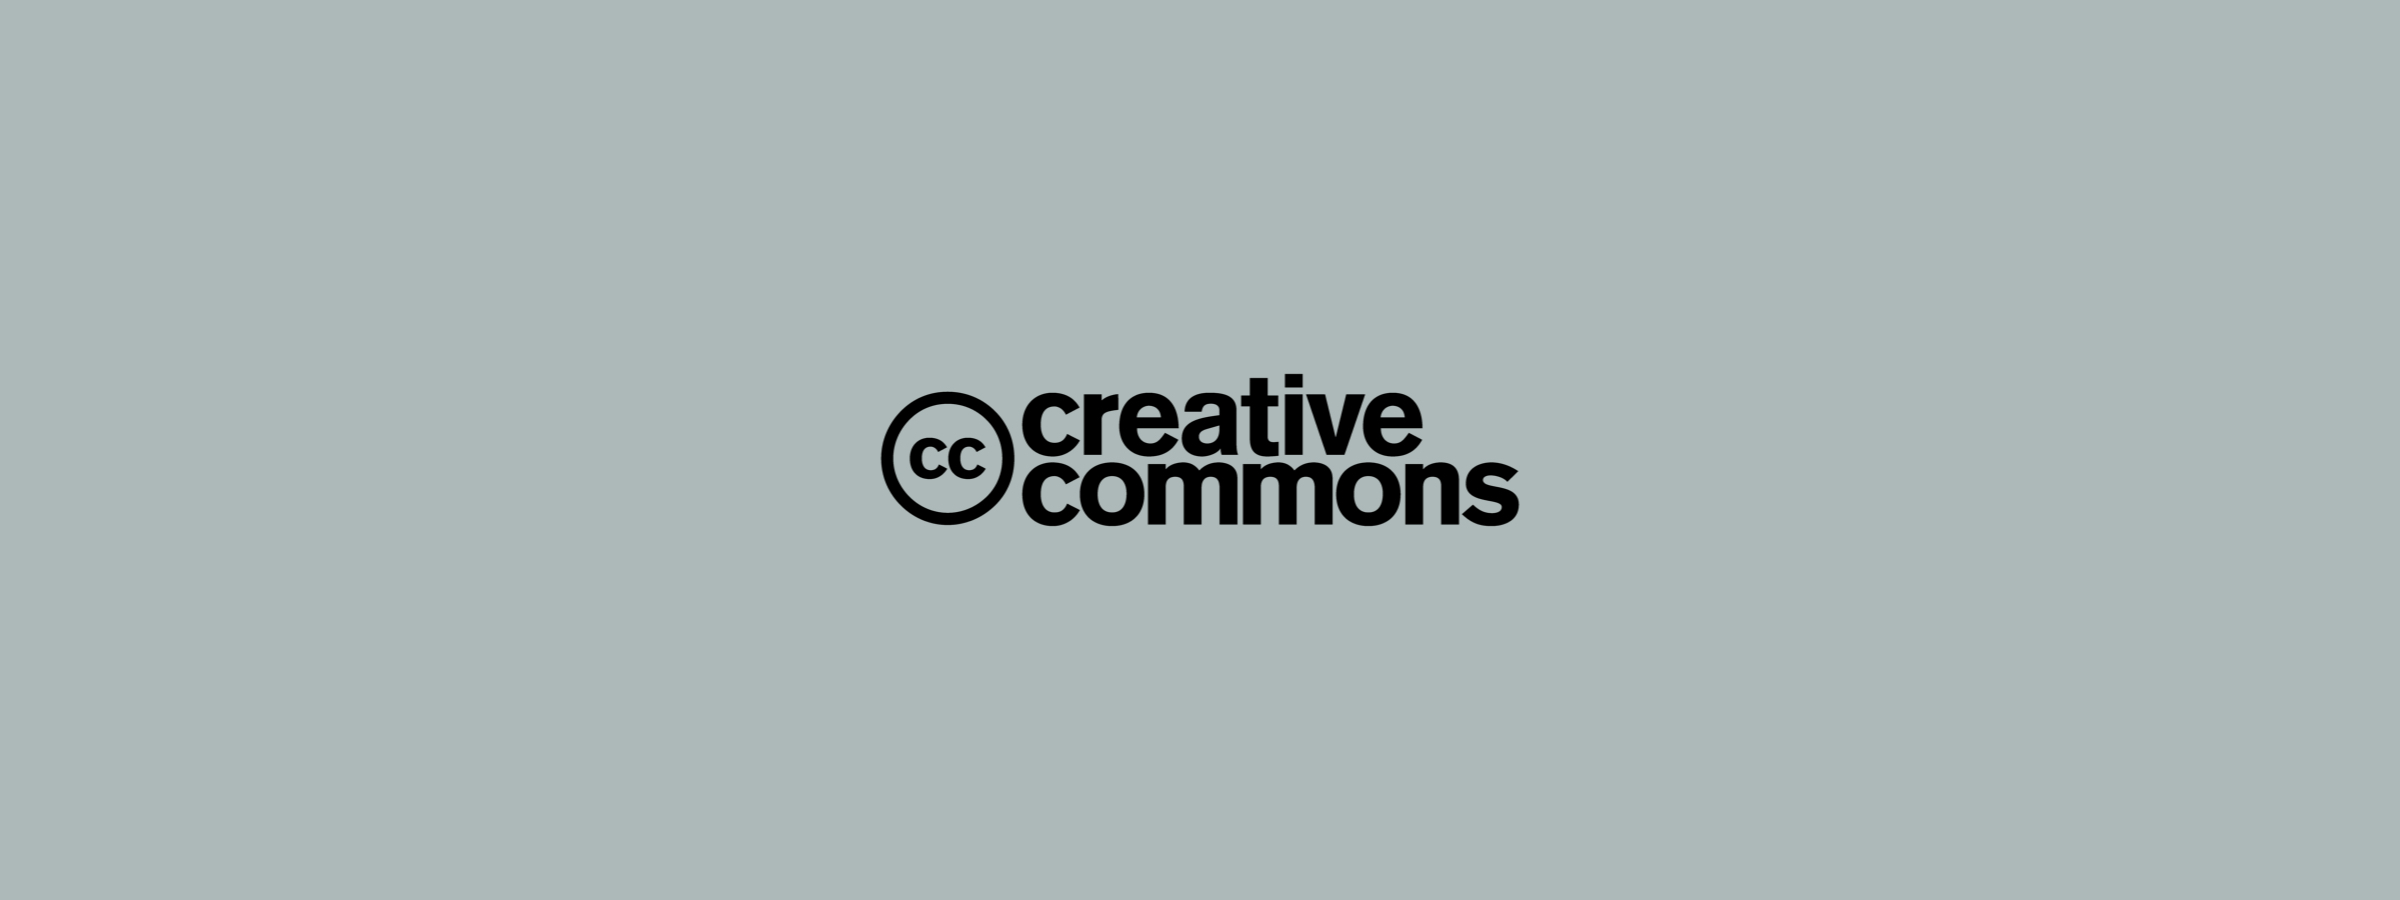
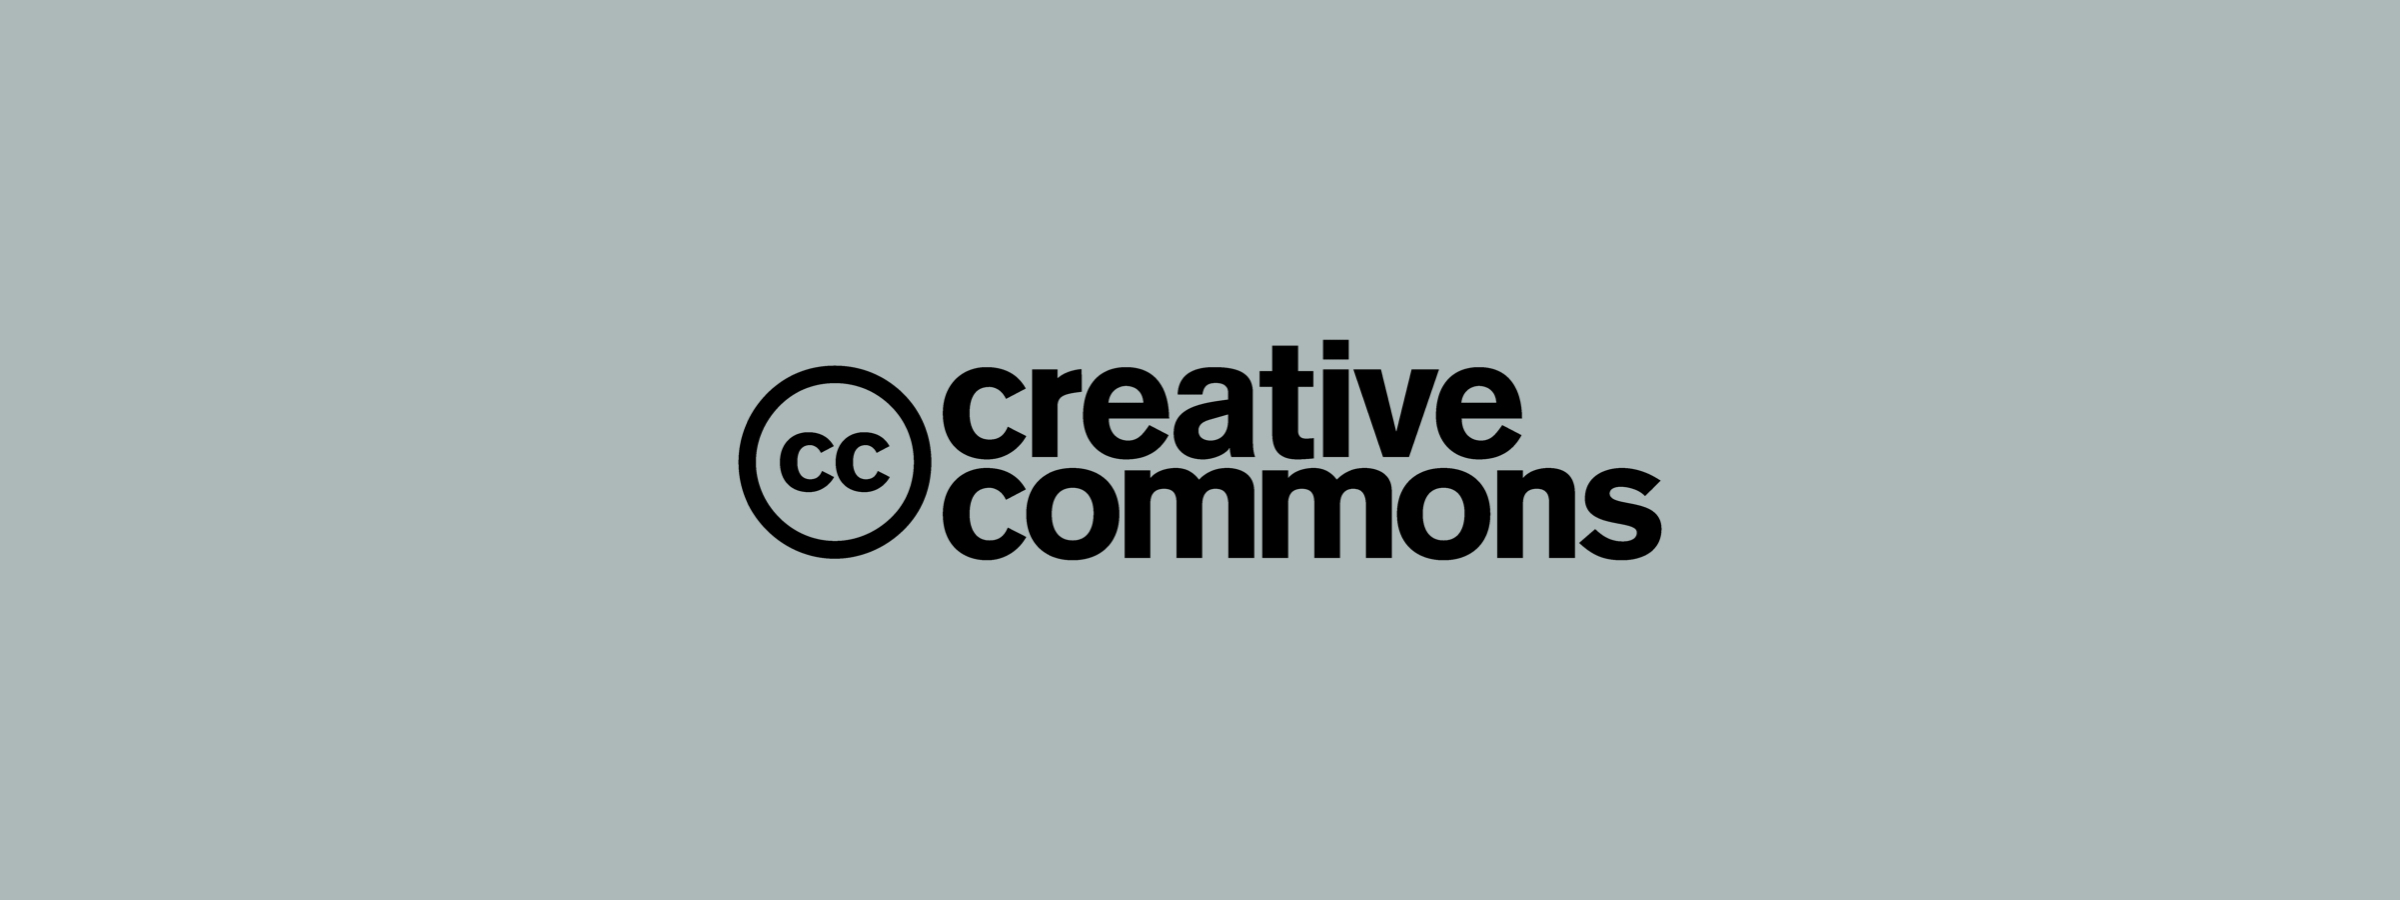
Blog posts management
Header image replacement.

Changed region(s): [[0.2812, 0.3733, 0.7188, 0.6222]]

diff --git a/_posts/2025-03-30-MDT.md b/_posts/2025-03-30-MDT.md
@@ -5,9 +5,9 @@ categories: ["Tools"]
 lang: en
 preTitle: March 30 2025
 lang-ref: MDT_toolkit
-background: /assets/images/dna-cover.webp
-ratio:  25
-thumbnail: /assets/images/dna-cover.webp
+background: /assets/images/header_MDT.jpeg
+ratio:  33
+thumbnail: /assets/images/header_MDT.jpeg
 
 ---
 

diff --git a/_posts/fr/2025-03-30-MDT.md b/_posts/fr/2025-03-30-MDT.md
@@ -5,9 +5,9 @@ categories: ["Outils"]
 lang: fr
 preTitle: 30 Mars 2025
 lang-ref: MDT_toolkit
-background: /assets/images/dna-cover.webp
-ratio:  25
-thumbnail: /assets/images/dna-cover.webp
+background: /assets/images/header_MDT.jpeg
+ratio:  33
+thumbnail: /assets/images/header_MDT.jpeg
 
 ---
 
